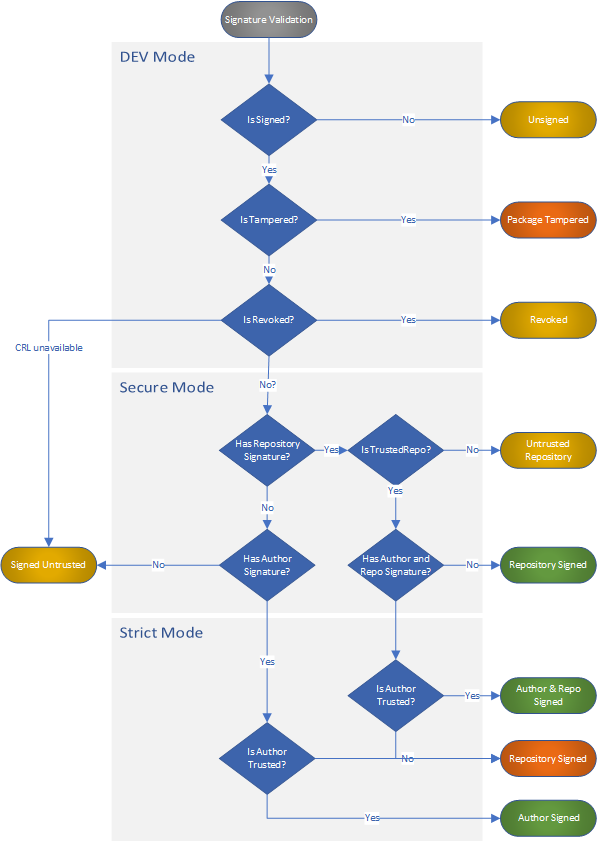
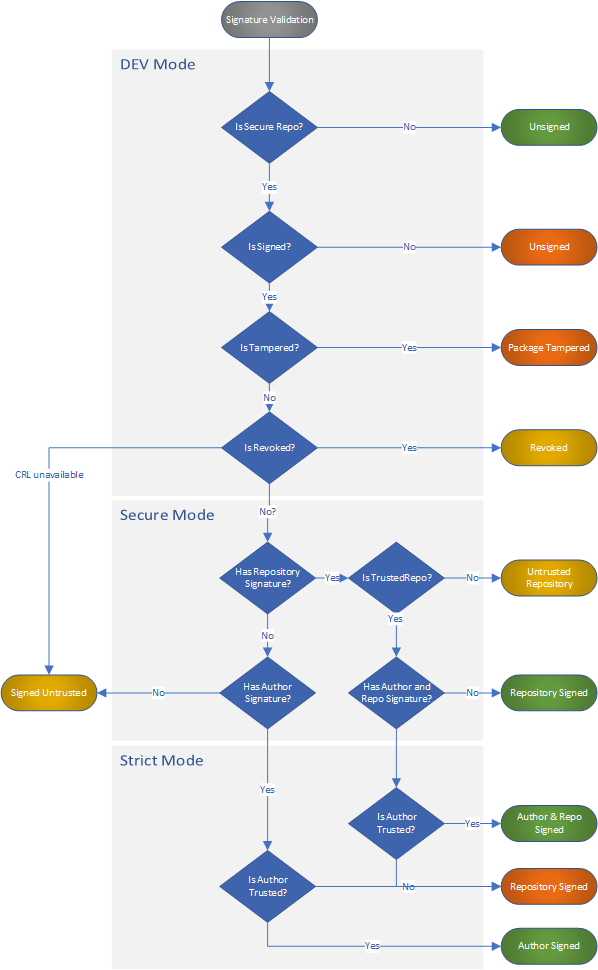
Update client policies, defaults

diff --git a/Repository-Signatures.md b/Repository-Signatures.md
@@ -55,7 +55,10 @@ The repository signature will include the following metadata:
 
 Repository signatures require a NuGet server with a v3 service endpoint. Repositories based on local or shared folders can host packages signed in a different repository, however to produce their own repository signatures they will need to configure an HTTP server to publish the certificates.
 
-### NuGet protocol changes to support Repository Signatures
+### Secure Repository
+Repositories who implement the updated service protocol, and sign all their packages with a repository signature will be considered as **Secure Repositories**.
+
+#### NuGet protocol changes to support Repository Signatures
 Repositories will announce the certificates used for repository signing as part of the NuGet protocol v3. 
 
 If a repository announces that all packages are repository signed, then a package reader should verify that a package received from the repository is signed as expected or resolve validation failure by a policy.
@@ -87,7 +90,8 @@ This new resource will include an endpoint to discover the list of certificates.
 |Thumbprint SHA256|Uniquely identify the certificate|
 |Subject Name|Text to display if needed|
 |Issued By|Name of the issuer|
-|Expiration Date|Identify expired certificates|
+|Valid From|Initial date to produce repository signatures|
+|Valid To|Last date producing repository signatures|
 
 
 #### Repository certificate management
@@ -96,21 +100,23 @@ Repository administrators can configure the certificates used for repository sig
 #### Repository certificate revocation
 If the repository private key is compromised the certificate must be revoked and all packages signed after the revocation effective date will become invalid and should be signed again with the new certificate. 
 
-Repositories must remove the revoked certificates from the service URL.
+Repositories should keep the list of certificate used over time, including the validity period for each.
 
 >Note: There are some limitations in non-Windows platforms, where the revocation status does not include the revocation effective date. If the repository certificate is compromised, all packages should be signed again with the updated certificate.
 
 
 ### Client policies
-Client policies allow to customize the security checks in three levels:
+Client policies allow to customize the security checks. These policies are defined in three modes to enable easy configuration:
 
--	Dev. This mode will be the default until all packages in NuGet.org include the repository signature. Clients will verify the signature if it’s available, but also allows unsigned packages. Most trust issues can be reported as warnings or ignored.
--	Secure. All packages must be signed, and trust verification is enforced. This mode  will be the default in future versions once all NuGet.org packages include the repository signature. 
--	Strict. Enables advanced locked-down configuration by requiring to explicitly trust package authors.  
+-	**Dev Mode**. This is the default mode of operation. It will always verify signed packages, but will enforce signed packages only if the package is downloaded from a repository announcing repository signatures. Trust is only enforced for repository signatures.
+ 
+-	**Secure**. All packages must be signed, no matter the source. Trust verification is enforced in all packages. 
+
+-	**Strict**. Enables advanced locked-down configuration by requiring to explicitly trust package authors.  
 
 |DEV|Secure|Strict|
 |---|------|------|
-|Allow unsigned|Require signed (author or repo)|Require signed (author)|
+|Allow unsigned from unsecure repositories|Require signed (author or repo) from all repositories|Require signed (author)|
 |Enforce content integrity (if signed)|Enforce content integrity|Enforce content integrity|
 |Perform revocation checks|Perform revocation checks|Perform revocation checks|
 ||Enforce trusted repositories|Enforce trusted repositories|
@@ -127,7 +133,7 @@ The sample below shows a sample configuration file:
   <packageRestore>
     <add key="enabled" value="true" />
     <add key="automatic" value="true" />
-    <add key="signatureValidationMode" value="Secure" />
+    <add key="signatureValidationMode" value="Secure" /> <!-- Default to DEV-->
   </packageRestore>
   <packageSources>
     <add  key="NuGet.org" 
@@ -148,26 +154,27 @@ Users trust specific repositories (and authors TBD) by listing the certificates 
 ```xml
 <configuration>
   <trustedRepositories>
-    <repository key="NuGet.org" 
-                serviceIndex="https://api.nuget.org/v3/index.json">
+    <repository key="NuGet.org">
       <certificate  subjectName="NuGet.org" 
                     thumbprint="a897009b809809c..." />
       <certificate  subjectName="NuGet.org" 
                     thumbprint="6565a656c65b65d..." />
     </repository>
-    <repository key="ContosoSharedRepo" 
-                serviceIndex="https://api.myget.org/F/ContosoRepository"
-                allowUntrustedRoot="true" >
+    <repository key="ContosoSharedRepo"                 
+                allowSelfSignedCerts="true" >
       <certificate  subjectName="ContosoCert" 
                     thumbprint="98098a0980b980c..." />      
     </repository>
   <trustedRepositories>
   </configuration>
 ```
+>Note: This configuration schema is a high level proposal. The final schema is being definied in a the related [[[Spec] NuGet Config schema changes to enable repository signatures]]
 
-NuGet official clients (VS, NuGet.exe and dotNet.exe) will include the NuGet.org keys by default. Future versions will add new certificates before the previous one gets expired. This means that clients who maintain their versions up to date will have the certificates registered by default. Clients running a specific version forever will need to update the keys manually as with any other repository.
+NuGet official clients (VS, NuGet.exe and dotNet.exe) will include the NuGet.org keys by default. Future versions will add new certificates before the previous one gets expired. This means that clients who maintain their versions up to date will have the certificates registered by default. 
 
-Repositories should use a code signing certificate issued by a CA, with revocation information support. If the certificate is not trusted, or the certificate revocation information is not available, the restore operation will produce a warning unless the `allowUntrustedRoot` option is set.
+Clients running a specific version *forever* will need to update the keys when they expire, or they won't be able to restore packages. To update the keys the can use the CLI or the IDE, or make a manually edit the configuration file.
+
+Repositories should use a code signing certificate issued by a CA, with revocation information support. If the certificate is not trusted, or the certificate revocation information is not available, the restore operation will produce a warning unless the `allowSelfSignedCerts` option is set.
 
 #### Add a new repository
 When adding a new repository, the client will query the service index, if repository signatures are announced the client will try to add the keys to the configuration file. These additions will only work if the certificates chain to a trusted root. When adding a repository with untrusted certificates, the client will produce a warning with instructions on how to update the configuration file:
@@ -178,7 +185,6 @@ nuget source add -Source  https://api.myget.org/F/ContosoRepository
 WARNING: The repository <BaseURL> announces certificates that are not in your trusted list configuration, do you want to add the next public keys to your trusted repositories list?
 For more information visit https://aka.ms/nuget-sync-keys
 ```
-
 
 VS package manager settings will show an icon to distinguish which package sources support repository signatures and will add a new window to see and update the keys.
 
@@ -199,7 +205,9 @@ Let’s review each of the decisions outlined in this diagram:
 -	**Has author and repo signature?** Once the repository certificate has been validated, the client will check to see if there is an author signature. Note that in Secure mode the author trust check is not enforced.
 -	**Is Author Trusted?** The strict mode requires to explicitly trust the package authors. (The full definition of the strict mode will be available later).
 
-When a signed package is found, just before extraction, the package reader must verify the package content integrity. If the computed hash does not match, the package will be considered tampered and the restore operation will fail. The DEV client policy will not set any additional enforcements, and all packages must be installed without any user interruption.
+When a signed package is found, just before extraction, the package reader must verify the package content integrity. If the computed hash does not match, the package will be considered tampered and the restore operation will fail. 
+
+The DEV client policy will require packages to be signed with the repository signature only if when the repository announces the feature. For other repositories there are no additional enforcements, and all packages must be installed without any user interruption.
 
 The Secure mode enforces that all packages must be signed with author or repo signatures: Author signatures require the signing certificate is trusted in the local machine, typically by the trusted roots certificates, if a package does not have an author signature it will check if there is a repository signature and if the repository is already trusted in the configuration. 
 
@@ -208,11 +216,11 @@ The Strict mode enforces trust with the author, the format to specify the list o
 If the repository is not found in the configuration, the package reader will produce a warning with clear instructions to fix the issue, e.g.:
 
 ```
-nuget install PackageFromNewRepository
+nuget install PackageFromNewRepository -source https://newrepository.com/index.json
 
 ERROR: This Package has been signed by a repository that is not trusted. 
 You must update your configuration to include the repository public keys by running: 
-‘nuget sync-keys -source http://newrepository.com/index.json’, or using the IDE.
+‘nuget sync-keys -source https://newrepository.com/index.json’, or using the IDE.
 
 For more information on package signing visit http://aka.ms/nuget-sync-keys 
 ```
@@ -220,12 +228,15 @@ For more information on package signing visit http://aka.ms/nuget-sync-keys
 ### Create a repository signature
 Repository signatures will be added to packages as part of the server ingestion process using the NuGet libraries. NuGet client tools will not expose any CLI command to generate repository signatures but it will support viewing and eventually removing a repository signature from a given package.
 
+>Note: As described in the repository signatures technical specification, only one repository signature is allowed per package. If a repository receives a package with an existing repository signature, the repository should reject or remove the signature to apply their own. **NuGet.org will remove the repository signature of a received packages before adding the NuGet.org repository signature**.
+
 ### Client Validation Matrix
 Official clients like Visual Studio and Nuget.exe (dotnet.exe will be included later), will be aligned with the 3 stages defined in the original [blog post](https://blog.nuget.org/20170914/NuGet-Package-Signing.html), to summarize:
 
-1. **Stage 1**. Clients will validate author signatures if available, and will ignore repository signatures. The behavior will be the same as the DEV mode.
-2. **Stage 2**. Clients will require signed packages, and will set the secure mode as default.
-3. **Stage 3**. Clients can opt-in in the strict mode, and VS will provide a UI to help defining the trusted authors list.
+1. **Stage 1**. Clients will validate author signatures if available, and will ignore repository signatures. 
+2. **Stage 2**. Clients will require signed packages from secure repositories, but will allow the installation of unsigned and/or untrusted packages from other sources.
+3. **Stage 3**. Clients can opt-in in the secure or strict mode. Visual Studio provides a UI to configure the trusted signers.
+
 
 Author Trust. In secure mode the author will be considered trusted if it chains to a trusted root in the local machine. In Strict mode it needs to be explicitly trusted in the configuration file. When revocation check cannot be validated, the trust will be considered as “undetermined”.
 
@@ -233,16 +244,16 @@ Repository Trust. Repository trust is determined based on the configuration file
 
 #### DEV mode
 
-Stage 1 clients will operate under DEV mode implicitily.
+||Author Trusted|Repo Trusted|Unsigned|Author|Repo|AuthorRepo|
+|---|---|---|---|---|---|---|
+|Unsecure Repo|N/A|N/A|:white_check_mark:|:white_check_mark:|:white_check_mark:|:white_check_mark:|
+|Secure Repo|N/A|N/A|:x:|:x:|:white_check_mark:|:white_check_mark:|
 
-|Author Trusted|Repo Trusted|Unsigned|Author|Repo|AuthorRepo|
-|---|---|---|---|---|---|
-|N/A|N/A|:white_check_mark:|:white_check_mark:|:white_check_mark:|:white_check_mark:|
 
 
 #### Secure mode
 
-Stage 2 clients will use the Secure mode by default. Users can opt-in the DEV mode to use unsigned packages.
+Stage 2 clients can opt-in the Secure mode. 
 
 |Author Trusted|Repo Trusted|Unsigned|Author|Repo|AuthorRepo|
 |---|---|---|---|---|---|
@@ -259,7 +270,7 @@ Stage 2 clients will use the Secure mode by default. Users can opt-in the DEV mo
 
 #### Strict mode
 
-Stage 3 clients will use the Secure mode by default. Users can opt-in the Strict mode to define a locked down environment.
+Stage 3 clients can opt-in the Strict mode to define a locked down environment.
 
 |Author Trusted|Repo Trusted|Unsigned|Author|Repo|AuthorRepo|
 |---|---|---|---|---|---|
@@ -272,5 +283,3 @@ Stage 3 clients will use the Secure mode by default. Users can opt-in the Strict
 |Undertermined|No|:x:|:x:|:x:|:x:|
 |Undertermined|Undertermined|:x:|:x:|:x:|:x:|
 |Undertermined|Yes|:x:|:x:|:x:|:x:|
-
-
